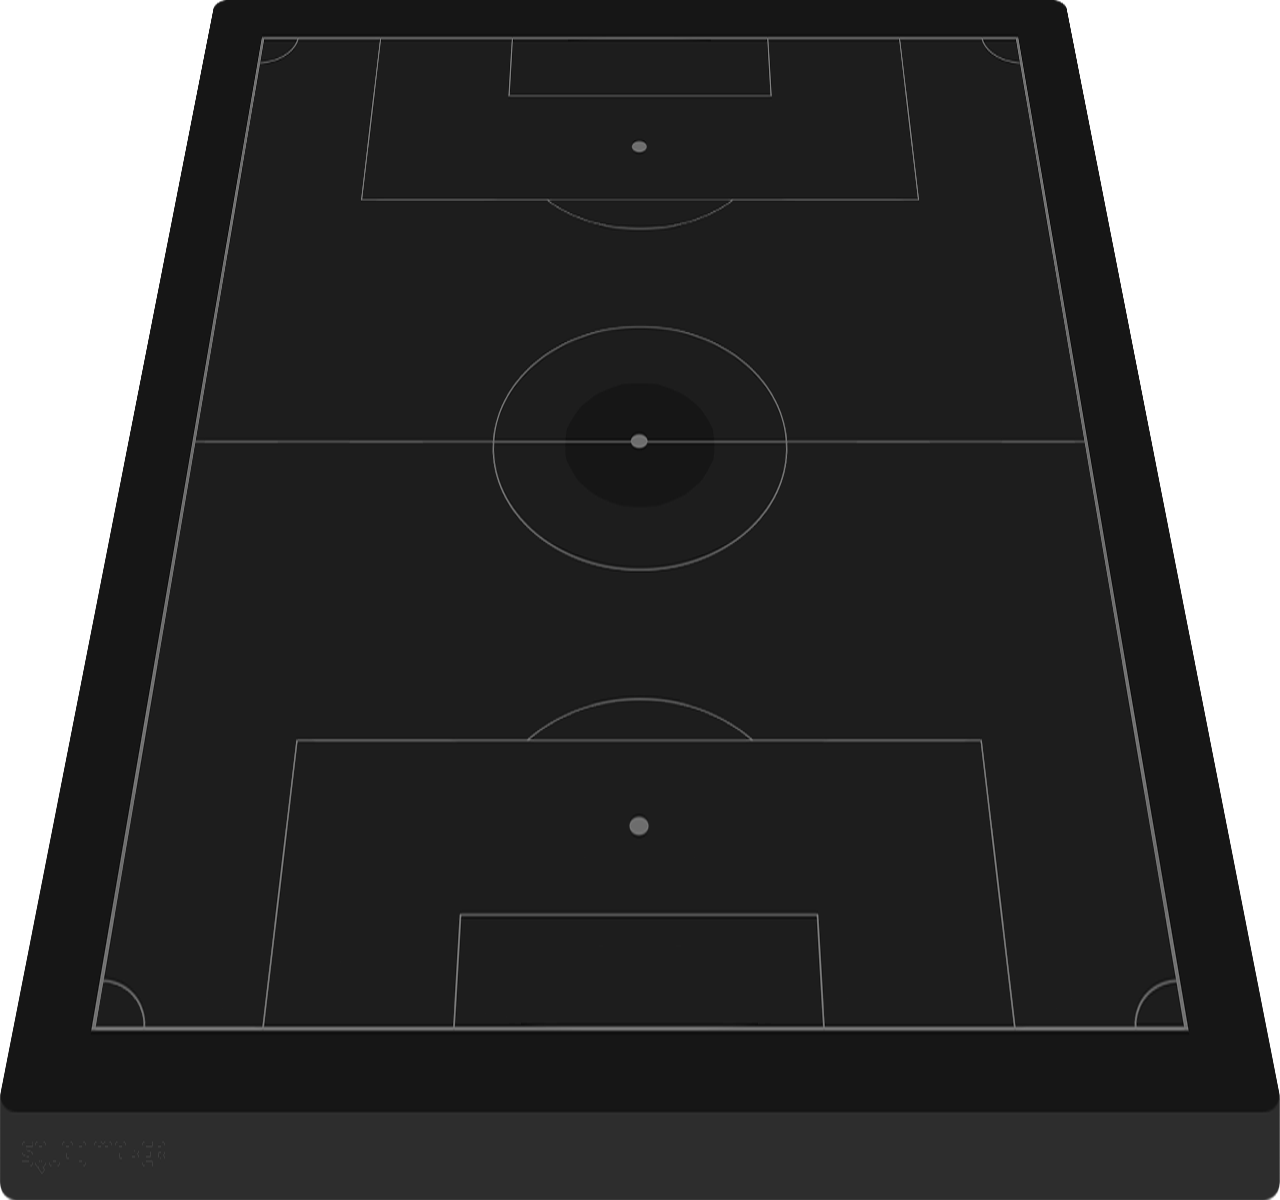
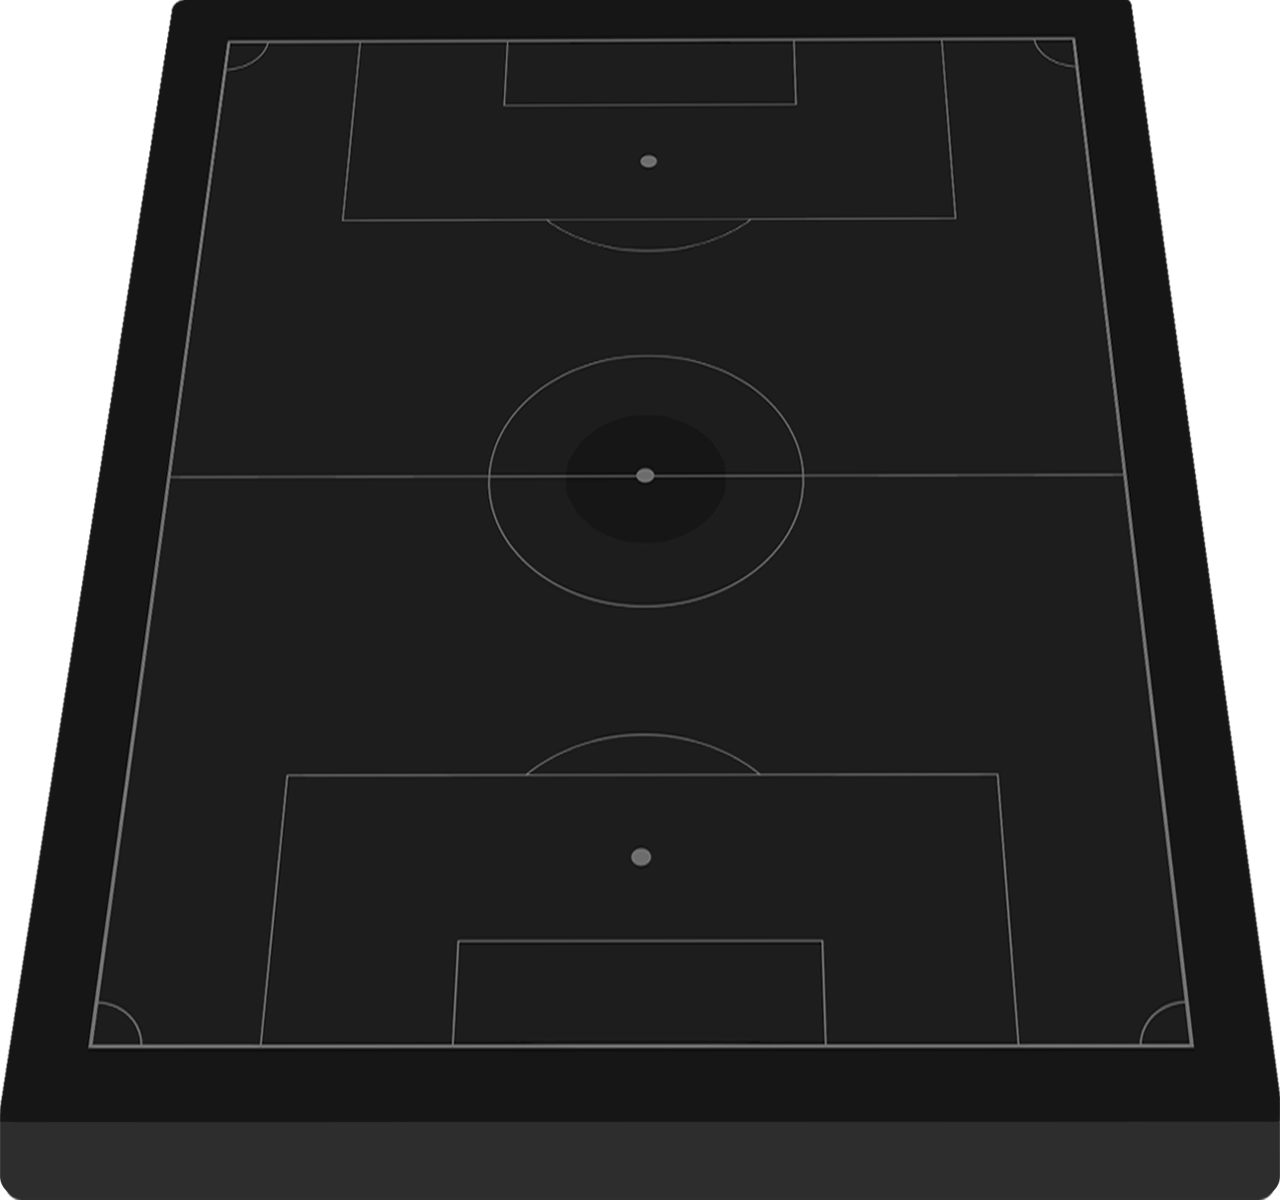
squad

diff --git a/KREBLE_KMK/src/main/webapp/css/squad_style.css b/KREBLE_KMK/src/main/webapp/css/squad_style.css
@@ -86,8 +86,8 @@ section {
     width:1200px;
     height:790px;
     margin:0 auto 30px;
-    background:url(../image/squad_bg2.png) no-repeat center top/contain;
-    background-size:1200px 850px;
+    background:url(../image/squad_bg.png) no-repeat center top/contain;
+    background-size:1200px 860px;
 }
 .mysquad .squad_wrap ul {
     width:100%;

diff --git a/KREBLE_KMK/src/main/java/dao/SquadDAO.java b/KREBLE_KMK/src/main/java/dao/SquadDAO.java
@@ -58,6 +58,8 @@ public class SquadDAO {
 				squad.setPlayer10(rs.getString("player10"));
 				squad.setPlayer11(rs.getString("player11"));
 				squad.setDisclose(rs.getString("disclose"));
+				squad.setMake_date(rs.getDate("make_date"));
+				squad.setView_count(rs.getInt("view_count"));
 				squadList.add(squad);
 			}
 		}catch(Exception ex){
@@ -98,6 +100,8 @@ public class SquadDAO {
 				squad.setPlayer10(rs.getString("player10"));
 				squad.setPlayer11(rs.getString("player11"));
 				squad.setDisclose(rs.getString("disclose"));
+				squad.setMake_date(rs.getDate("make_date"));
+				squad.setView_count(rs.getInt("view_count"));
 				allList.add(squad);
 			}
 		}catch(Exception ex){
@@ -178,7 +182,7 @@ public class SquadDAO {
 		int insertCount=0;
 
 		try{
-			sql="insert into mysquad (user_id,mysquad_no,mysquad_name,fomation,director,player1,player2,player3,player4,player5,player6,player7,player8,player9,player10,player11) values(?,default,?,?,?,?,?,?,?,?,?,?,?,?,?,?);";
+			sql="insert into mysquad (user_id,mysquad_no,mysquad_name,fomation,director,player1,player2,player3,player4,player5,player6,player7,player8,player9,player10,player11,make_date) values(?,default,?,?,?,?,?,?,?,?,?,?,?,?,?,?,now();";
 			pstmt = con.prepareStatement(sql);
 			pstmt.setString(1, squad.getUser_id());
 			pstmt.setString(2, squad.getSquad_name());
@@ -254,6 +258,34 @@ public class SquadDAO {
 			pstmt.setString(1, article.getDisclose());
 			pstmt.setInt(2, article.getSquad_num());
 			pstmt.setString(3, article.getUser_id());
+			updateCount = pstmt.executeUpdate();
+		}catch(Exception ex){
+		}finally{
+			close(pstmt);
+		}
+
+		return updateCount;
+	}
+	
+	
+	@SuppressWarnings("resource")
+	public int updateViewCount(int squad_no){
+		
+		int view_count = 0;
+		int updateCount = 0;
+		ResultSet rs = null;
+		PreparedStatement pstmt = null;
+
+		String sql="update mysquad set view_count=? where mysquad_no=?";
+		try{
+			pstmt=con.prepareStatement("select view_count from mysquad where mysquad_no ="+squad_no);
+			rs = pstmt.executeQuery();
+
+			if(rs.next()) view_count =rs.getInt("view_count")+1;
+			else view_count=1;
+			pstmt = con.prepareStatement(sql);
+			pstmt.setInt(1, view_count);
+			pstmt.setInt(2, squad_no);
 			updateCount = pstmt.executeUpdate();
 		}catch(Exception ex){
 		}finally{

diff --git a/KREBLE_KMK/src/main/java/vo/SquadInfo.java b/KREBLE_KMK/src/main/java/vo/SquadInfo.java
@@ -1,5 +1,7 @@
 package vo;
 
+import java.util.Date;
+
 public class SquadInfo {
 	String user_id;
 	int squad_num;
@@ -18,6 +20,20 @@ public class SquadInfo {
 	String player10;
 	String player11;
 	String disclose;
+	Date make_date;
+	int view_count;
+	public Date getMake_date() {
+		return make_date;
+	}
+	public void setMake_date(Date make_date) {
+		this.make_date = make_date;
+	}
+	public int getView_count() {
+		return view_count;
+	}
+	public void setView_count(int view_count) {
+		this.view_count = view_count;
+	}
 	public String getUser_id() {
 		return user_id;
 	}

diff --git a/KREBLE_KMK/src/main/java/svc/UserSquadListService.java b/KREBLE_KMK/src/main/java/svc/UserSquadListService.java
@@ -44,5 +44,19 @@ public class UserSquadListService {
 		return selectSquad;
 		
 	}
+	
+	public void updateViewCount(int no) throws Exception{
+		boolean isModifySuccess = false;
+		Connection con = getConnection();
+		SquadDAO commuDAO = SquadDAO.getInstance();
+		commuDAO.setConnection(con);
+		int updateCount = commuDAO.updateViewCount(no);
+		if(updateCount > 0){
+			commit(con);
+		}
+		else{
+			rollback(con);
+		}
+	}
 
 }

diff --git a/KREBLE_KMK/src/main/java/controller/SquadController.java b/KREBLE_KMK/src/main/java/controller/SquadController.java
@@ -17,7 +17,6 @@ import vo.ActionForward;
 @WebServlet("*.sq")
 public class SquadController extends javax.servlet.http.HttpServlet 
 {
-	@SuppressWarnings("null")
 	protected void doProcess(HttpServletRequest request, HttpServletResponse response) 
 			throws ServletException, IOException {
 		request.setCharacterEncoding("UTF-8");

diff --git a/KREBLE_KMK/src/main/java/action/UserSquadListAction.java b/KREBLE_KMK/src/main/java/action/UserSquadListAction.java
@@ -28,6 +28,7 @@ import vo.SquadInfo;
 			request.setAttribute("squadList", squadList);
 		}
 		if(squad_no!=0) {
+			userSquadListService.updateViewCount(squad_no);
 			selectSquad = userSquadListService.getArticle(squad_no);
 			request.setAttribute("squad", selectSquad);
 		}
